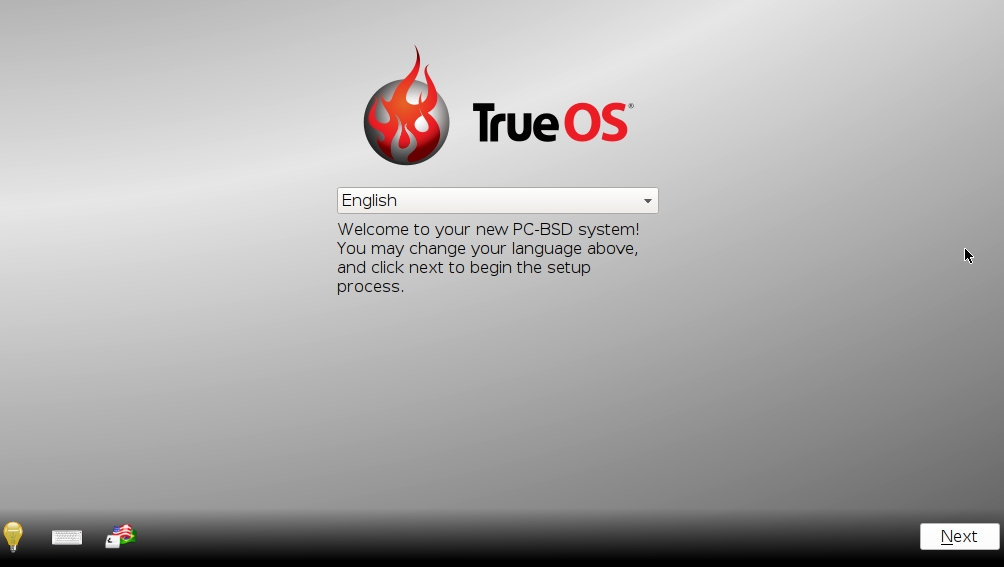
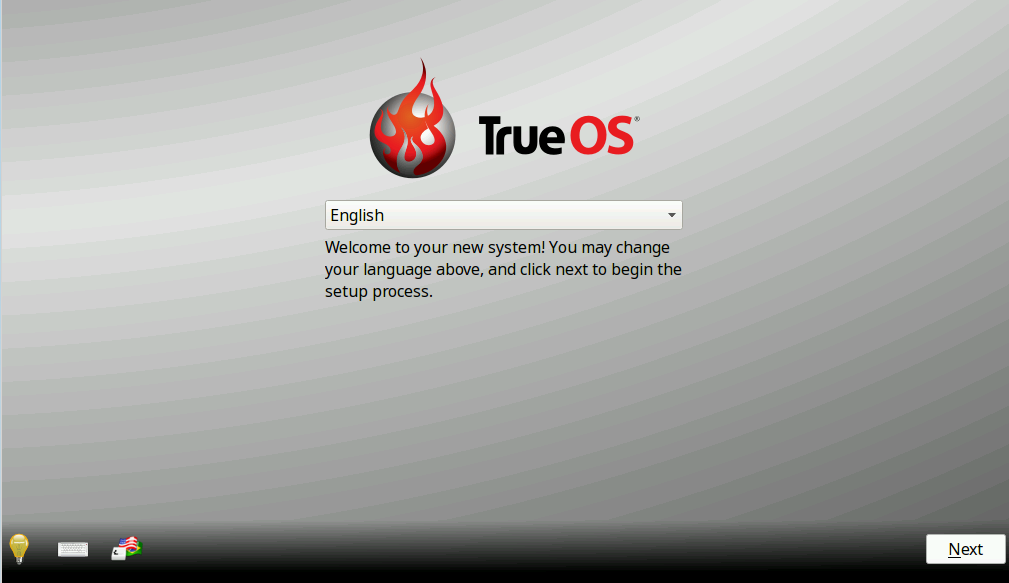
Update some installer screenshots.

diff --git a/trueos-handbook/install.rst b/trueos-handbook/install.rst
@@ -86,15 +86,13 @@ present you with its options.
 
 .. figure:: images/install2b.png
 
-Starting on the left-hand side, these icons in the bottom navigation
-area allow you to: 
+Starting on the left-hand side, these icons in the bottom navigation area allow you to: 
 
 * access hardware compatibility information to quickly determine if
   the system's video card, Ethernet card, wireless device, and sound
   card are compatible with TrueOS®
 
-* manage :ref:`Network Manager` for a network installation or
-  system restore
+* manage :ref:`Network Manager` for a network installation or system restore
 
 * read that screen's Help text 
 
@@ -150,8 +148,7 @@ System Selection Screen
 
 The "System Selection" screen, shown in
 :numref:`Figure %s: System Selection Screen <install3c>`, allows you
-to install a graphical desktop or a console-based server operating
-system. It also can be used for :ref:`Restoring the Operating System`.
+to install a graphical desktop or a console-based server operating system. It also can be used for :ref:`Restoring the Operating System`.
 This chapter concentrates on a desktop installation. Refer to
 :ref:`Install a Server` for instructions on how to install a
 command-line only server.
@@ -218,8 +215,7 @@ describes these modes in detail.
   multi-disk installation, add a log or cache device, encrypt the
   disk, or specify the filesystem layout.
 
-* **FreeBSD Expert:** select this mode if you prefer to drop down to a
-  shell to manually enter the commands to setup your disk.
+* **FreeBSD Expert:** select this mode if you prefer to drop down to a shell to manually enter the commands to setup your disk.
 
 .. warning:: Regardless of the mode that you select, once the disk
    wizard completes and you click "Next" at the disk "Summary" screen,
